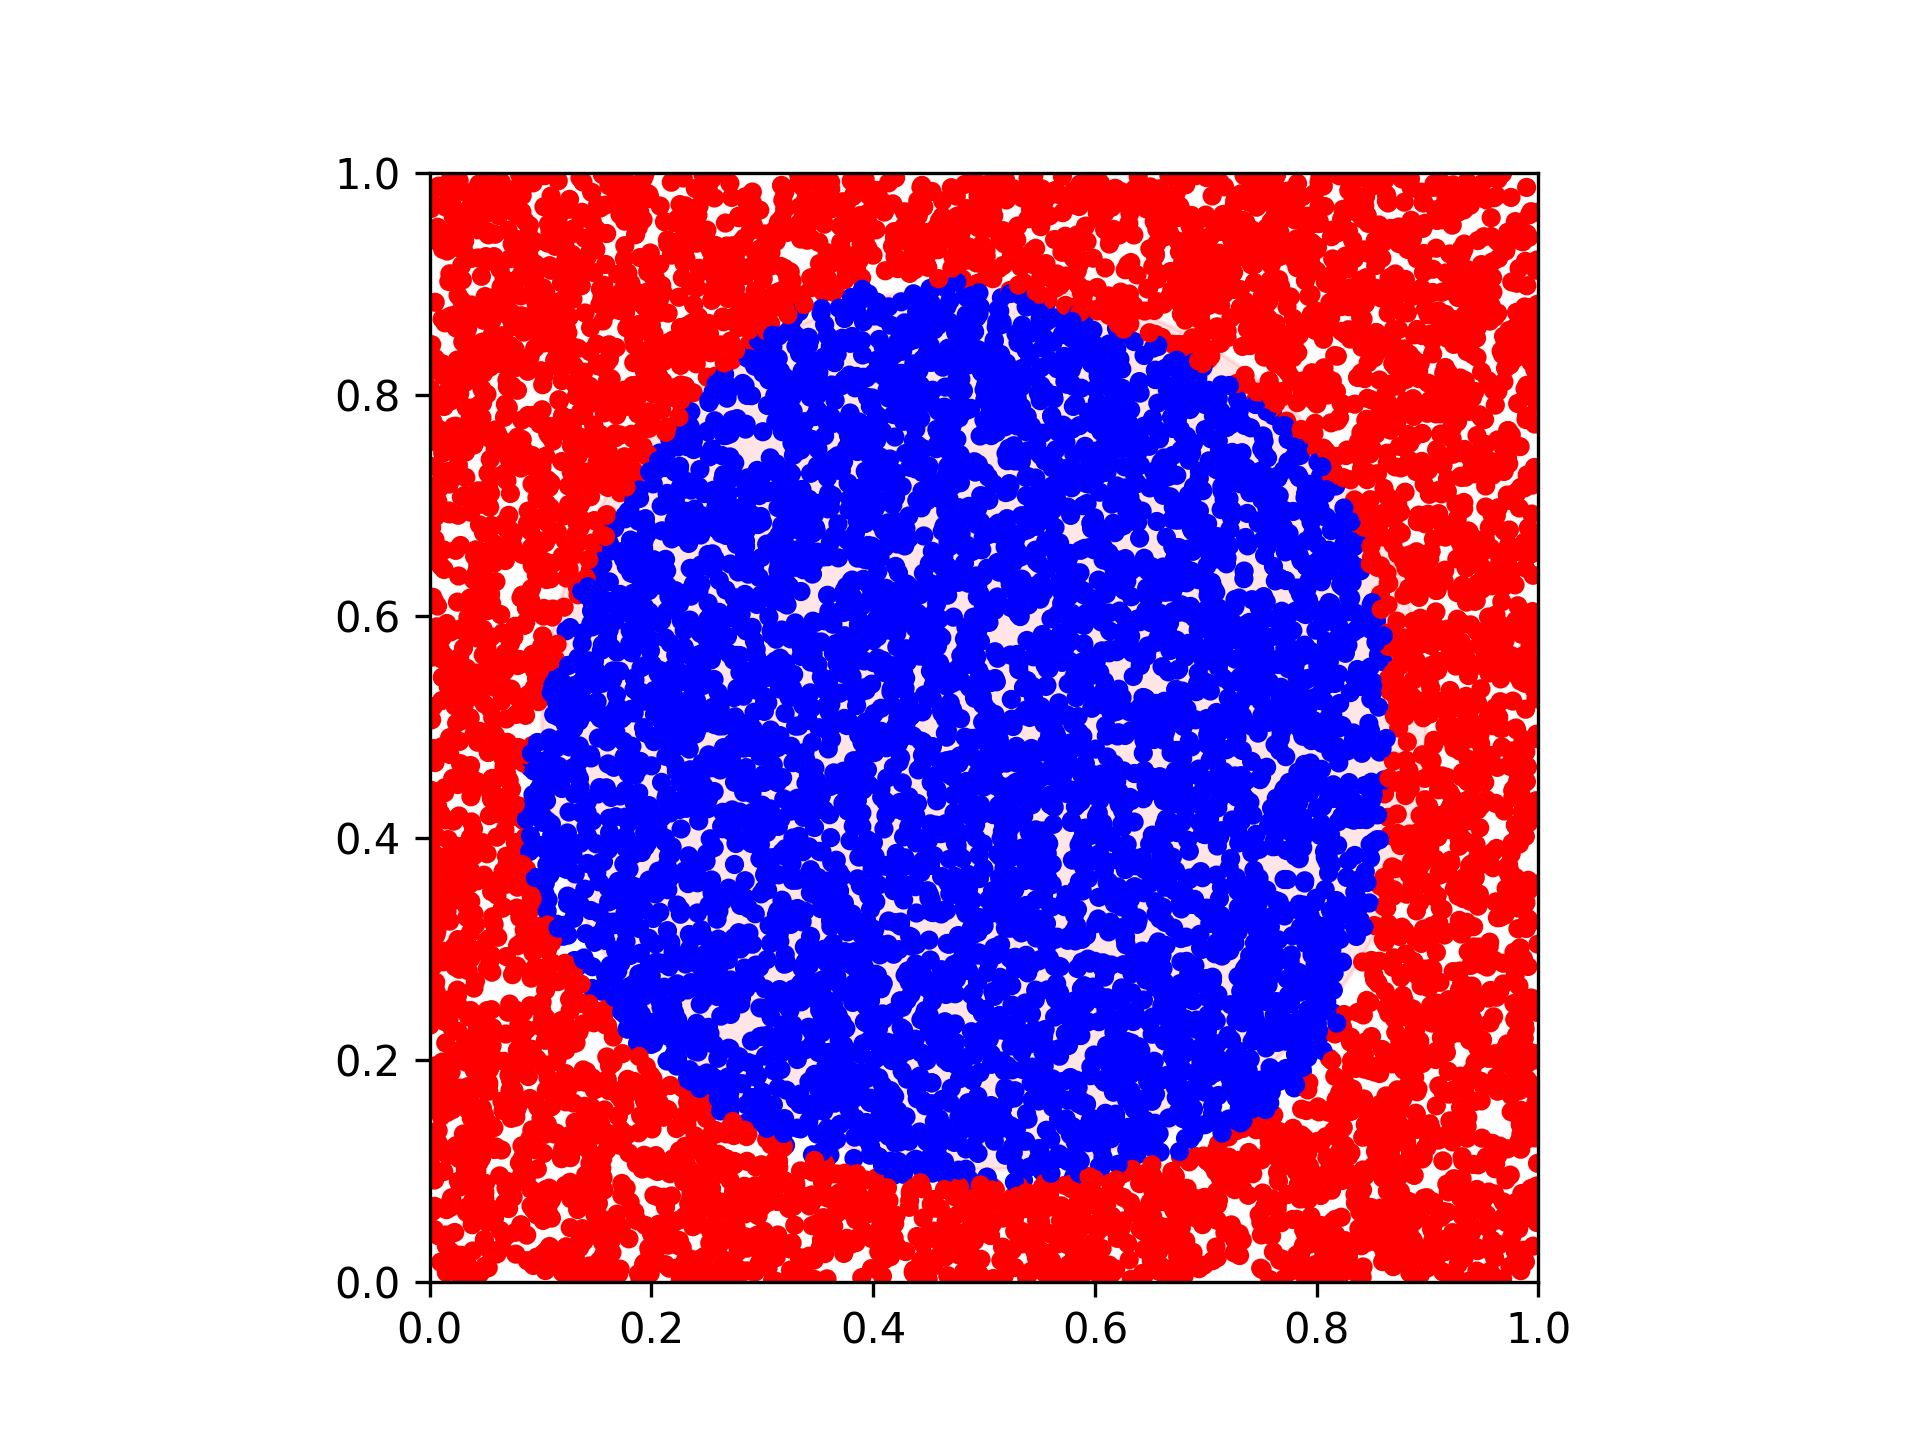
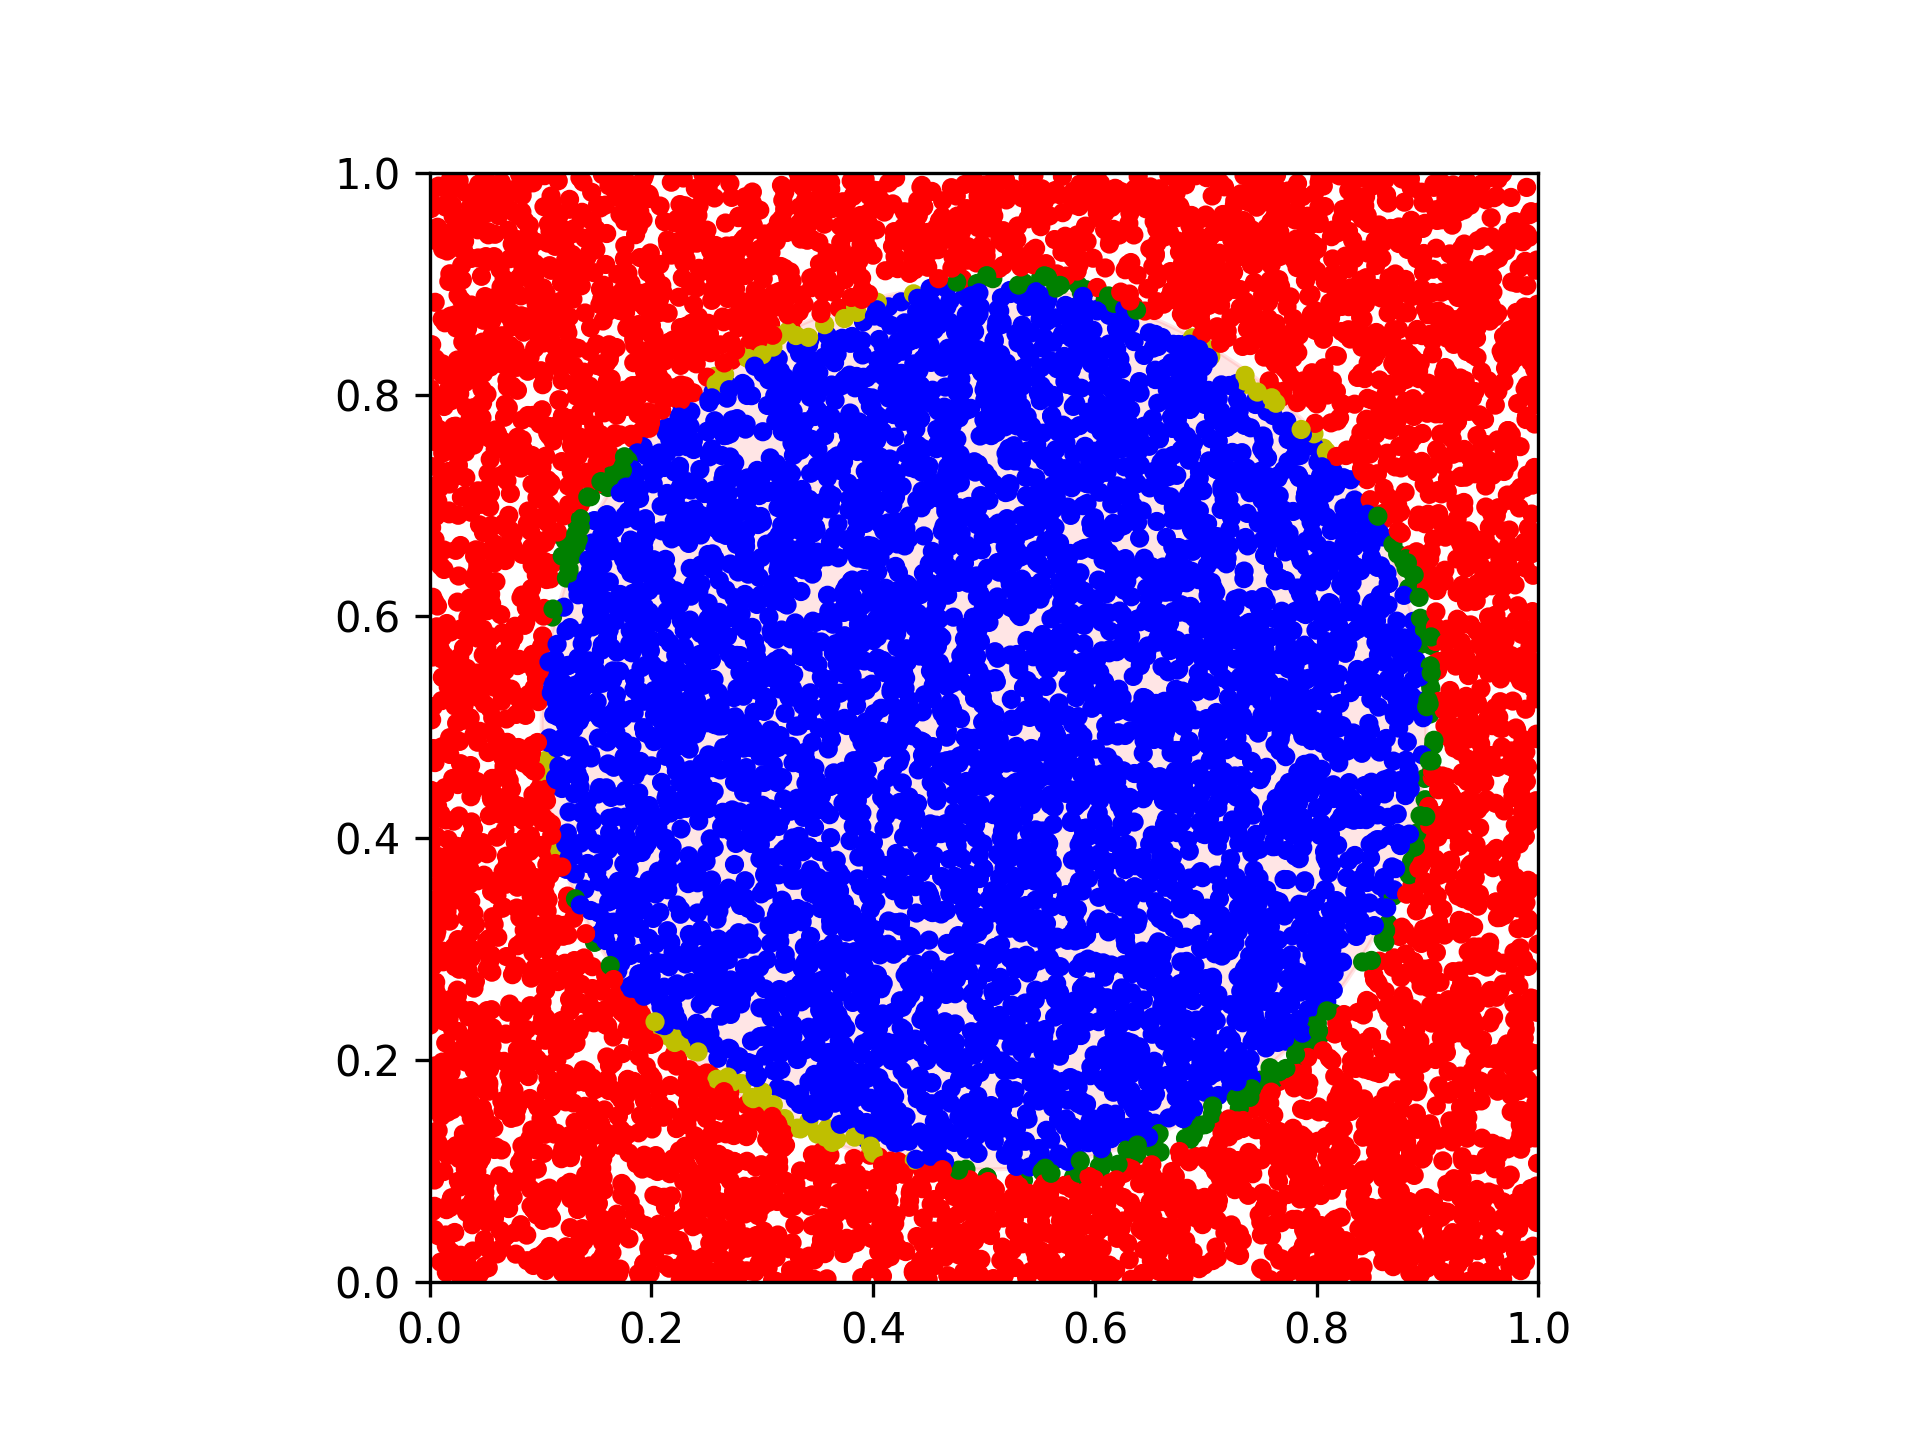
neiro_fix_lab4

diff --git a/4semestr/neironki/4lab/lab4.py b/4semestr/neironki/4lab/lab4.py
@@ -30,7 +30,6 @@ samples = list(points(sample_count))
 c = [(1,0) if hit(P[X], P[Y]) else (0,1) for P in samples]
 x = [[1, p[X], p[Y]] for p in samples]
 
-
 np.random.seed(1)
 wx = [[(np.random.random()-0.5)/2 for i in range(hidden_size)] for _ in range(input_size + bias)]
 wy = [[(np.random.random()-0.5)/2 for i in range(out_size)] for _ in range(hidden_size + bias)]
@@ -46,10 +45,12 @@ for epoh in range(epochs + 1):
         x_b = x[batch*batch_size:(batch+1)*batch_size]
         
         #forward
-        y = sigmoid(np.dot(x_b, wx))
+        y=np.dot(x_b, wx)
+        y = sigmoid(y)
         y = np.hstack((np.array([1]*batch_size)[:, np.newaxis], y))
 
-        z_b = sigmoid(np.dot(y, wy))  #6x2
+        z_b=np.dot(y, wy)
+        z_b = sigmoid(z_b)  #6x2
         #backward
         e = c_b - z_b  #6x2
         delta_out = e * (z_b * (1 - z_b))  #6x2
@@ -108,12 +109,20 @@ ans_x = list(map(round, z_x))
 ans_y = list(map(round, z_y))
  
 colors = []
-for i in ans_x:
-    if (i):
-        colors.append("r")
+
+
+for i in range(len(ans_x)):
+    if (ans_x[i]):
+        if not hit(x[i][1],x[i][2]):
+            colors.append("y")
+        else:
+            colors.append("r")
     else:
-        colors.append("b")
+        if hit(x[i][1],x[i][2]):
+            colors.append("g")
+        else:
+            colors.append("b")
  
-ax.scatter(p_x, p_y, c=colors,s=13)
+ax.scatter(p_x, p_y, c=colors,s=11)
  
 plt.savefig("4semestr\\neironki\\4lab\\graph.png", dpi=300)
